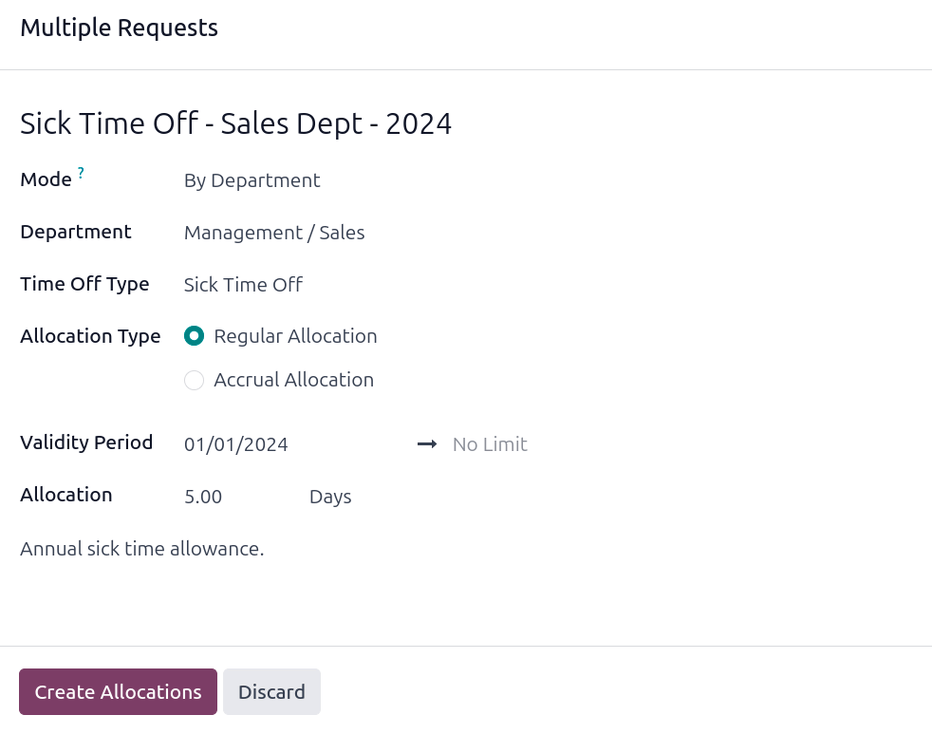
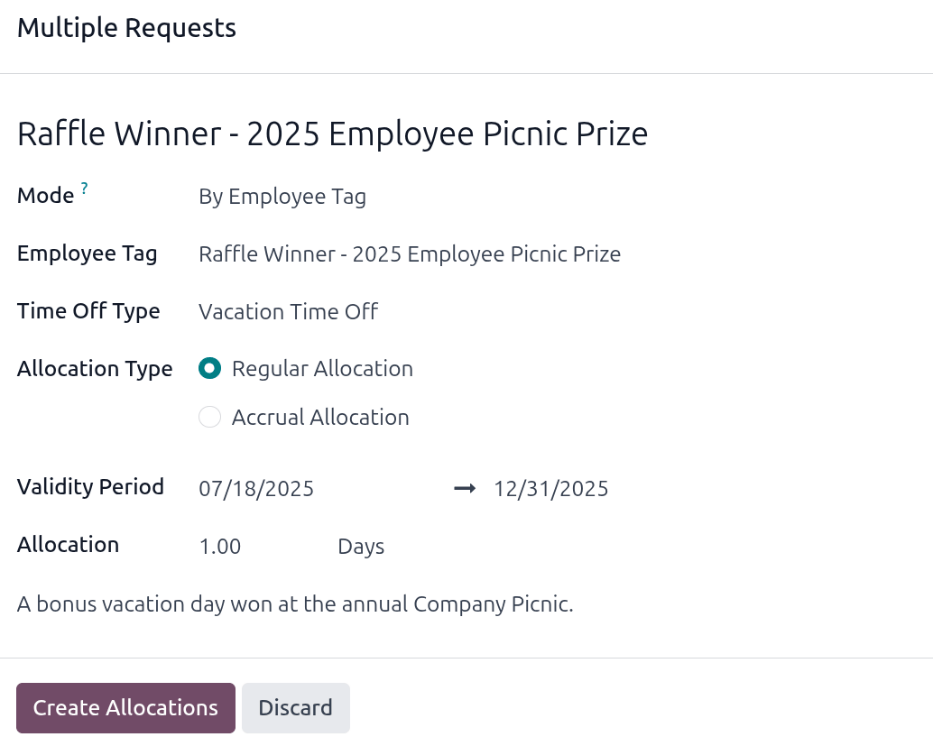
[IMP] Time Off: Updating Allocations
closes odoo/documentation#14181

diff --git a/content/applications/hr/time_off/allocations.rst b/content/applications/hr/time_off/allocations.rst
@@ -2,6 +2,9 @@
 Allocations
 ===========
 
+Allocations are amounts of time off given to employees, either granted immediately or earned as the
+employee works, through an accrual plan.
+
 Once :ref:`time off types <time_off/time-off-types>` and :ref:`accrual plans
 <time_off/accrual-plans>` have been configured, the next step is to *allocate*, or give, time off to
 employees.
@@ -26,15 +29,17 @@ Click :guilabel:`New` to allocate time off, and a blank :guilabel:`Allocation` f
 After entering a name for the allocation on the first blank field of the form, enter the following
 information:
 
+- :guilabel:`Name`: Enter a name for the allocation, typically containing the type of time off, and
+  the period of time it is available (example: `Annual Vacation Time Off - 2025`).
 - :guilabel:`Time Off Type`: Using the drop-down menu, select the type of time off that is being
   allocated to the employees.
-- :guilabel:`Allocation Type`: Select either :guilabel:`Regular Allocation` or :guilabel:`Accrual
-  Allocation`. If the allocation is **not** based on an :ref:`accrual plan
-  <time_off/accrual-plans>`, select :guilabel:`Regular Allocation`.
+- :guilabel:`Allocation Type`: Select how the allocation is granted. Choose :guilabel:`Regular
+  Allocation` if the time off is given immediately, or :guilabel:`Accrual Allocation` if the time
+  off is earned through an :ref:`accrual plan <time_off/accrual-plans>`.
 - :guilabel:`Accrual Plan`: If :guilabel:`Accrual Allocation` is selected for the
   :guilabel:`Allocation Type`, the :guilabel:`Accrual Plan` field appears. Using the drop-down menu,
-  select the accrual plan with which the allocation is associated. An accrual plan **must** be
-  selected for an :guilabel:`Accrual Allocation`.
+  select the accrual plan associated with the allocation. An accrual plan is **required** when using
+  the :guilabel:`Accrual Allocation` type.
 - :guilabel:`Validity Period/Start Date`: If :guilabel:`Regular Allocation` is selected for the
   :guilabel:`Allocation Type`, this field is labeled :guilabel:`Validity Period`. If
   :guilabel:`Accrual Allocation` is selected for the :guilabel:`Allocation Type`, this field is
@@ -45,37 +50,14 @@ information:
   allocation, and click on the date to select it.
 
   If the allocation expires, select the expiration date in the next date field. If the time off does
-  *not* expire, leave the second date field blank. :guilabel:`No Limit` appears in the field if no
-  date is selected.
+  *not* expire, leave the second date field blank.
 
   If :guilabel:`Accrual Allocation` is selected for the :guilabel:`Allocation Type`, this second
   field is labeled :guilabel:`Run until`.
-
-  .. important::
-     If the :guilabel:`Start Date` entered is in the middle of a period of time, such as the middle
-     of the month, Odoo applies the allocation to the beginning or end of the period, depending on
-     the *Accrued Gain Time* entered on the :ref:`accrual plan <time_off/accrual-plans>` (either *At
-     the start of the accrual period*, or *At the end of the accrual period*) instead of the
-     specific date entered.
-
-     For example, an allocation is created, and references an accrual plan that grants time *At the
-     start of the accrual period*, monthly, on the first of the month.
-
-     On the allocation form, the :guilabel:`Allocation Type` is set to :guilabel:`Accrual
-     Allocation`, and the :guilabel:`Start Date` entered is `06/16/24`.
-
-     Odoo's **Time Off** app retroactively applies the allocation to the beginning of the time
-     period entered in the :guilabel:`Start Date`.
-
-     Therefore, this allocation accrues time from `06/01/24`, rather than `06/16/24`.
-
-     Additionally, if on the accrual form, the allocation references an accrual plan that grants
-     time *`At the end of the accrual period*, the allocation accrues time from `7/01/24` rather
-     than `6/18/24`.
-
 - :guilabel:`Allocation`: Enter the amount of time that is being allocated to the employees. This
   field displays the time in either :guilabel:`Hours` or :guilabel:`Days`, depending on how the
   selected :ref:`Time Off Type <time_off/time-off-types>` is configured.
+- :guilabel:`Employee`: Using the drop-down menu, select the employee being allocated the time off.
 - :guilabel:`Add a reason...`: If any description or note is necessary to explain the time off
   allocation, enter it in this field at the bottom of the form.
 
@@ -83,8 +65,24 @@ information:
    :alt: A new allocation form with all the fields filled out for the annual two week vacation
          granted to all employees.
 
-Multiple Allocations
---------------------
+Accrual start date behavior
+---------------------------
+
+If the :guilabel:`Start Date` is in the middle of an accrual period, Odoo adjusts it to the start or
+end of that period based on the *Accrued Gain Time* entered on the :ref:`accrual plan
+<time_off/accrual-plans>`.
+
+.. example::
+   - *At the start of the accrual period*: A :guilabel:`Start Date` of `06/16/25` applies from
+     `06/01/25`
+   - *At the end of the accrual period*: A :guilabel:`Start Date` of `06/18/25` applies from
+     `07/01/25`
+
+Automatic adjustments on the start date to either the begining or end of an accural period ensures
+accruals align with the defined period boundaries, rather than the exact date entered.
+
+Multiple requests
+-----------------
 
 When allocating time off, it is common to allocate time to several employees at once. This is done
 using the :guilabel:`Multiple Requests` feature.
@@ -94,10 +92,10 @@ app --> Management --> Allocations`. Then, click the :icon:`fa-gear` :guilabel:`
 the upper-left corner, then click :icon:`fa-users` :guilabel:`Multiple Requests`. This reveals a
 :guilabel:`Multiple Requests` pop-up window.
 
-This form is identical to the :guilabel:`Allocation` form, with an additional :guilabel:`Mode`
-field. The :guilabel:`Mode` field determines how multiple employees are selected.
+This form is identical to the :ref:`Allocation form <time_off/allocation-form>`, with an additional
+:guilabel:`Mode` field. The :guilabel:`Mode` field determines how multiple employees are selected.
 
-Using the drop-down menu, select one of the following :guilabel:`Modes`:
+Using the drop-down menu, select a :guilabel:`Mode` from one of the following options:
 
 - :guilabel:`By Employee`: This option allows for the selection of multiple individual employees
   that are unrelated in terms of department, company, or tags. Selecting this reveals an
@@ -126,9 +124,31 @@ desired.
 Fill out the remainder of the :ref:`Multiple Requests form <time_off/allocation-form>`, then click
 :guilabel:`Create Allocations` when done.
 
-.. image:: allocations/multiple-requests.png
-   :alt: An allocation request form filled out for sick time for all employees within the sales
-         department.
+.. example::
+   A company hosts an annual picnic, including a raffle. There are five raffle prizes for a free
+   vacation day, which must be redeemed by the end of the year. The winners of this raffle all have
+   the tag `Raffle Winner - 2025 Employee Picnic Prize` added to their employee profiles.
+
+   The time off officer creates multiple allocations, and configures the :ref:`Multiple Requests
+   form <time_off/allocation-form>` as follows:
+
+   The name for the allocation is :guilabel:`Vacation Day - Raffle Prize - 2025 Picnic`. The
+   :guilabel:`Mode` is set to :guilabel:`By Employee Tag`, and the :guilabel:`Tag` identified is
+   :guilabel:`Raffle Winner - 2025 Employee Picnic Prize`.
+
+   The :guilabel:`Time Off Type` is set to :guilabel:`Vacation Time Off`, with the
+   :guilabel:`Allocation Type` set to :guilabel:`Regular Allocaiton`, since the time off is given up
+   front, and is not *earned*.
+
+   The :guilabel:`Validity Period` is set to :guilabel:`07/18/2025` :icon:`oi-arrow-right`
+   :guilabel:`12/31/2025`, since the compnay picnic was that day, and the earned vacation day
+   expires at the end of the year.
+
+   The :guilabel:`Allocation` is set to :guilabel:`1.00 Days`, and `A bonus vacation day won at the
+   annual Company Picnic.` appears in the details at the bottom.
+
+   .. image:: allocations/multiple-requests.png
+      :alt: An allocation request form filled out for a bonus vacation day for raffle winners.
 
 .. _time_off/request-allocation:
 
@@ -146,13 +166,15 @@ list view. Both buttons open a new allocation request form.
 .. note::
    Both options open a new allocation request form, but when requested from the
    :guilabel:`Dashboard`, the form appears in a pop-up window, and the *Validity Period* field does
-   **not** appear. When requested from the :guilabel:`My Allocations` list view, the screen
-   navigates to a new allocation request page, instead of presenting a pop-up window.
+   **not** appear.
+
+   When requested from the :guilabel:`My Allocations` list view, the screen navigates to a new
+   allocation request page, instead of presenting a pop-up window.
 
 Enter the following information on the new allocation request form:
 
-- :guilabel:`Time Off Type`: Select the type of time off being requested for the allocation from the
-  drop-down menu. After a selection is made, the title updates with the time off type.
+- :guilabel:`Time Off Type`: Using the drop-down menu, select the type of time off being requested
+  for the allocation. After a selection is made, the title updates with the time off type.
 - :guilabel:`Validity Period`: By default, the current date populates this field, and it is **not**
   able to be modified. This field **only** appears when requesting an allocation from the
   :guilabel:`My Allocations` view (:menuselection:`Time Off --> My Time --> My Allocations`).
@@ -167,8 +189,7 @@ If the request was created from the :guilabel:`Dashboard`, click the :guilabel:`
 on the :guilabel:`New Allocation` pop-up window to save the information and submit the request.
 
 If the form was completed from the :guilabel:`My Allocations` list view, the information is
-automatically saved as it is entered. However, the form can be saved manually at any time by
-clicking the :icon:`fa-cloud-upload` :guilabel:`(cloud upload)` icon.
+automatically saved as it is entered.
 
 .. image:: allocations/allocation-request.png
    :alt: An allocation request form filled out for an employee requesting an additional week of
